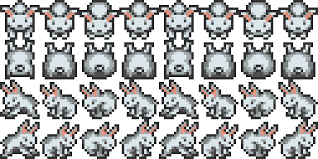
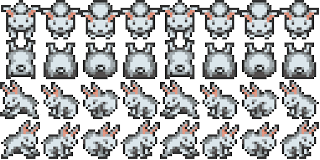
deplacemet sprite direction

diff --git a/affichage/affichage_fct.c b/affichage/affichage_fct.c
@@ -1,6 +1,6 @@
 #include "affichage_fct.h"
 
-int lapinIndex =0 ;
+int lapinIndex =0;
 SDL_Rect lapin[32];
 SDL_Texture * lapintexture = NULL;
 int offset_x_lapin,offset_y_lapin;
@@ -19,7 +19,6 @@ int chasseurIndex =0;
 
 void affichefond(SDL_Renderer * renderer,SDL_Window * window ,int** map, int taille)
 {
-    
  
     if(N==-1){
         N = taille;
@@ -46,6 +45,7 @@ void affichefond(SDL_Renderer * renderer,SDL_Window * window ,int** map, int tai
         texture[2] = loadTexture("../img/terrier.png", renderer);
     }
 
+    SDL_RenderClear(renderer);
 
     for(int i =0; i<N; i++){
         for(int j =0; j<N; j++){
@@ -62,13 +62,13 @@ void affichefond(SDL_Renderer * renderer,SDL_Window * window ,int** map, int tai
             else if(map[i][j]==3){
                 SDL_Rect rect = {j*offsetX,i*offsetY,offsetY,offsetX};
                 SDL_RenderCopy(renderer, texture[0], NULL, &rect);
-                afficheLapin(renderer,window,map,i,j);
+                afficheLapin(renderer,window,map,j,i,offsetX,offsetY);
 
             }
             else if(map[i][j]==4){
                 SDL_Rect rect = {j*offsetX,i*offsetY,offsetY,offsetX};
                 SDL_RenderCopy(renderer, texture[0], NULL, &rect);
-                afficheChasseur(renderer,window,map,i,j);
+                afficheChasseur(renderer,window,map,j,i,offsetX,offsetY);
 
             }
             else{
@@ -77,10 +77,11 @@ void affichefond(SDL_Renderer * renderer,SDL_Window * window ,int** map, int tai
             }
         }
     }
+    SDL_RenderPresent(renderer);
 
 }
 
-void afficheLapin(SDL_Renderer * renderer,SDL_Window * window ,int** map, int x, int y)
+void afficheLapin(SDL_Renderer * renderer,SDL_Window * window ,int** map, int x, int y, int offsetX,int offsetY)
 {
 
     if(window_w==-1 || window_h==-1){
@@ -89,29 +90,31 @@ void afficheLapin(SDL_Renderer * renderer,SDL_Window * window ,int** map, int x,
         SDL_GetWindowSize(window, &window_w, &window_h);
 
     }
-    Draw_Lapin(window,renderer,lapin,lapintexture,offset_x_lapin,offset_y_lapin);
+    Draw_Lapin(window,renderer,lapin,&lapintexture,&offset_x_lapin,&offset_y_lapin);
+    if(lapintexture == NULL) printf("PAS DE TEXTURE \n");
     int nb_images_w = 8, nb_images_h=4;
-    int zoom =1;
+
     SDL_Rect destination_lapin={0};
     SDL_Rect source_lapin={0};
 
-    destination_lapin.w = offset_x_lapin * zoom;       
-    destination_lapin.h = offset_y_lapin * zoom;
-    destination_lapin.y = y;
-    destination_lapin.x = x;
+    destination_lapin.w = offset_x_lapin * 0.8;       
+    destination_lapin.h = offset_y_lapin * 0.8;
+    destination_lapin.y = y*offsetY;
+    destination_lapin.x = x*offsetX;
   
     source_lapin.x = lapin[lapinIndex].x;
     source_lapin.y = lapin[lapinIndex].y;
     source_lapin.w = lapin[lapinIndex].w;
     source_lapin.h = lapin[lapinIndex].h;
 
-    lapinIndex = (lapinIndex+ 1) % nb_images_w;
-    SDL_RenderCopy(renderer, lapintexture, &source_lapin, &destination_lapin);
-    
+    printf ("\n source lapin : %d %d %d %d\n",source_lapin.x,source_lapin.y,source_lapin.w,source_lapin.h);
+    printf ("\n dest lapin :%d %d %d %d\n",destination_lapin.x,destination_lapin.y,destination_lapin.w,destination_lapin.h);
 
+    lapinIndex = (lapinIndex+ 1) % nb_images_w;
+    SDL_RenderCopy(renderer, lapintexture,&source_lapin, &destination_lapin);
 }
 
-void afficheChasseur(SDL_Renderer * renderer,SDL_Window * window ,int** map, int x, int y)
+void afficheChasseur(SDL_Renderer * renderer,SDL_Window * window ,int** map, int x, int y, int offsetX,int offsetY)
 {
 
     if(window_w==-1 || window_h==-1){
@@ -120,27 +123,60 @@ void afficheChasseur(SDL_Renderer * renderer,SDL_Window * window ,int** map, int
         SDL_GetWindowSize(window, &window_w, &window_h);
 
     }
-    Draw_Chasseur(window,renderer,chasseur,chasseurtexture,offset_x_chasseur,offset_y_chasseur);
+    Draw_Chasseur(window,renderer,chasseur,&chasseurtexture,&offset_x_chasseur,&offset_y_chasseur);
     SDL_Rect destination_chasseur={0};
     SDL_Rect source_chasseur={0};
-    int nb_images_w = 8, nb_images_h=4;
+    int nb_images_w = 9, nb_images_h=4;
 
-    int zoom =1;
-    destination_chasseur.w = offset_x_chasseur * zoom;       
-    destination_chasseur.h = offset_y_chasseur * zoom;
-    destination_chasseur.y = y;
-    destination_chasseur.x = x;
+    
+    destination_chasseur.w = offsetX*1.2;       
+    destination_chasseur.h = offsetY*1.2;
+    destination_chasseur.y = y*offsetY;
+    destination_chasseur.x = x*offsetX ;
 
     source_chasseur.x = chasseur[chasseurIndex].x;
     source_chasseur.y = chasseur[chasseurIndex].y;
     source_chasseur.w = chasseur[chasseurIndex].w;
     source_chasseur.h = chasseur[chasseurIndex].h;
+
     chasseurIndex = (chasseurIndex + 1) % nb_images_w;
 
-    SDL_RenderCopy(renderer, lapintexture, &source_chasseur, &destination_chasseur);
+    printf ("\n source ch : %d %d %d %d\n",source_chasseur.x,source_chasseur.y,source_chasseur.w,source_chasseur.h);
+    printf ("\n dest ch :  %d %d %d %d\n",destination_chasseur.x,destination_chasseur.y,destination_chasseur.w,destination_chasseur.h);
+
+    SDL_RenderCopy(renderer, chasseurtexture, &source_chasseur, &destination_chasseur);
+    //SDL_RenderCopy(renderer, chasseurtexture, &source_chasseur, NULL);
+    SDL_Delay(800);
 
 }
 
+
+// 0:bouge pas, 1:descend, 2:monte, 3:va vers la gauche, 4:va vers la droite
+int deplacement_orientation ( int x_ancienne,int y_ancienne,int x_nouvelle, int y_nouvelle )
+{   
+    int retour ;
+    if (x_ancienne<x_nouvelle)
+    {
+        retour = 1;
+    }
+    else if (x_ancienne>x_nouvelle)
+    {
+        retour = 2;
+    }
+    else if (y_ancienne<y_nouvelle)
+    {
+        retour=4;
+
+    }
+    else if (y_ancienne>y_nouvelle)
+    {
+        retour=3;
+    }
+    else{
+        retour=0;
+    }
+    return(retour);
+}
 
 
 

diff --git a/affichage/ajout_sprite.c b/affichage/ajout_sprite.c
@@ -1,59 +1,57 @@
 #include "./ajout_sprite.h"
 
 
-void Draw_Lapin(SDL_Window * window,SDL_Renderer * renderer,SDL_Rect * lapin,SDL_Texture * lapintexture,int offset_x_lapin,int offset_y_lapin)
+void Draw_Lapin(SDL_Window * window,SDL_Renderer * renderer,SDL_Rect * lapin,SDL_Texture ** lapintexture,int* offset_x_lapin,int* offset_y_lapin)
 {
     int window_w, window_h ;
     SDL_GetWindowSize(window, &window_w, &window_h);
     SDL_Rect source={0};
-    SDL_Rect destination={0};
 
-    if(lapintexture == NULL)lapintexture = loadTexture("../img/lapin.png", renderer);
-    SDL_QueryTexture(lapintexture,NULL, NULL,&source.w, &source.h);
-    
+    if(*lapintexture == NULL)*lapintexture = loadTexture("../img/lapin.png", renderer);
+    SDL_QueryTexture(*lapintexture,NULL, NULL,&source.w, &source.h);
     int nb_images_w = 8, nb_images_h=4;
 
 
-    offset_x_lapin= source.w/nb_images_w;
-    offset_y_lapin = source.h/nb_images_h; 
+    *offset_x_lapin= 40;
+    *offset_y_lapin = 40;
 
-    for(int i=0; i<nb_images_h; i++)
+    for(int j=0; j<nb_images_h; j++)
     {
-        for (int j=0; j<nb_images_w;j++)
+        for (int i=0; i<nb_images_w;i++)
         {
-            lapin[i +j].x = j*offset_x_lapin;
-            lapin[i +j].y = i*offset_y_lapin;
-            lapin[i+j].w = offset_x_lapin;
-            lapin[i+j].h = offset_y_lapin;
+            lapin[i+j*nb_images_w].x = i*(*offset_x_lapin);
+            lapin[i+j*nb_images_w].y = j*(*offset_y_lapin);
+            lapin[i+j*nb_images_w].w = (*offset_x_lapin);
+            lapin[i+j*nb_images_w].h = (*offset_y_lapin);
         }
     }
+    
 
 }
 
-void Draw_Chasseur(SDL_Window * window,SDL_Renderer * renderer,SDL_Rect * chasseur,SDL_Texture * chasseurtexture,int offset_x_chasseur,int offset_y_chasseur)
+void Draw_Chasseur(SDL_Window * window,SDL_Renderer * renderer,SDL_Rect * chasseur,SDL_Texture ** chasseurtexture,int* offset_x_chasseur,int* offset_y_chasseur)
 {
     int window_w, window_h ;
     SDL_GetWindowSize(window, &window_w, &window_h);
     SDL_Rect source={0};
-    SDL_Rect destination={0};
 
-    if(chasseurtexture == NULL)chasseurtexture = loadTexture("../img/chasseur_mouvement.png", renderer);
-    SDL_QueryTexture(chasseurtexture,NULL, NULL,&source.w, &source.h);
+    if(*chasseurtexture == NULL)*chasseurtexture = loadTexture("../img/chasseur_mouvement_2.png", renderer);
+    SDL_QueryTexture(*chasseurtexture,NULL, NULL,&source.w, &source.h);
     
-    int nb_images_w = 8, nb_images_h=4;
+    int nb_images_w = 9, nb_images_h=4;
 
 
-    offset_x_chasseur= source.w/nb_images_w;
-    offset_y_chasseur = source.h/nb_images_h; 
+    *offset_x_chasseur= source.w/nb_images_w;
+    *offset_y_chasseur = 61;
 
-    for(int i=0; i<nb_images_h; i++)
+    for(int j=0; j<nb_images_h; j++)
     {
-        for (int j=0; j<nb_images_w;j++)
+        for (int i=0; i<nb_images_w;i++)
         {
-            chasseur[i+j].x = j*offset_x_chasseur;
-            chasseur[i+j].y = i*offset_y_chasseur;
-            chasseur[i+j].w = offset_x_chasseur;
-            chasseur[i+j].h = offset_y_chasseur;
+            chasseur[i+j*nb_images_w].x = i*(*offset_x_chasseur);
+            chasseur[i+j*nb_images_w].y = j*(*offset_y_chasseur);
+            chasseur[i+j*nb_images_w].w = *offset_x_chasseur;
+            chasseur[i+j*nb_images_w].h = *offset_y_chasseur;
         }
     }
 

diff --git a/affichage/ajout_sprite.h b/affichage/ajout_sprite.h
@@ -8,8 +8,8 @@
 #include "./init_SDL.h"
 
 
-void Draw_Lapin(SDL_Window * window,SDL_Renderer * renderer,SDL_Rect * lapin,SDL_Texture * lapintexture,int offset_x_lapin,int offset_y_lapin);
+void Draw_Lapin(SDL_Window * window,SDL_Renderer * renderer,SDL_Rect * lapin,SDL_Texture ** lapintexture,int* offset_x_lapin,int* offset_y_lapin);
 
-void Draw_Chasseur(SDL_Window * window,SDL_Renderer * renderer,SDL_Rect * chasseur,SDL_Texture * chasseurtexture,int offset_x_chasseur,int offset_y_chasseur);
+void Draw_Chasseur(SDL_Window * window,SDL_Renderer * renderer,SDL_Rect * chasseur,SDL_Texture ** chasseurtexture,int* offset_x_chasseur,int* offset_y_chasseur);
 
 

diff --git a/affichage/affichage_fct.h b/affichage/affichage_fct.h
@@ -11,5 +11,5 @@
 
 
 void affichefond(SDL_Renderer * renderer,SDL_Window * window ,int** map, int taille);
-void afficheLapin(SDL_Renderer * renderer,SDL_Window * window ,int** map, int x, int y);
-void afficheChasseur(SDL_Renderer * renderer,SDL_Window * window ,int** map, int x, int y);
+void afficheLapin(SDL_Renderer * renderer,SDL_Window * window ,int** map, int x, int y, int offsetX,int offsetY);
+void afficheChasseur(SDL_Renderer * renderer,SDL_Window * window ,int** map, int x, int y, int offsetX,int offsetY);
